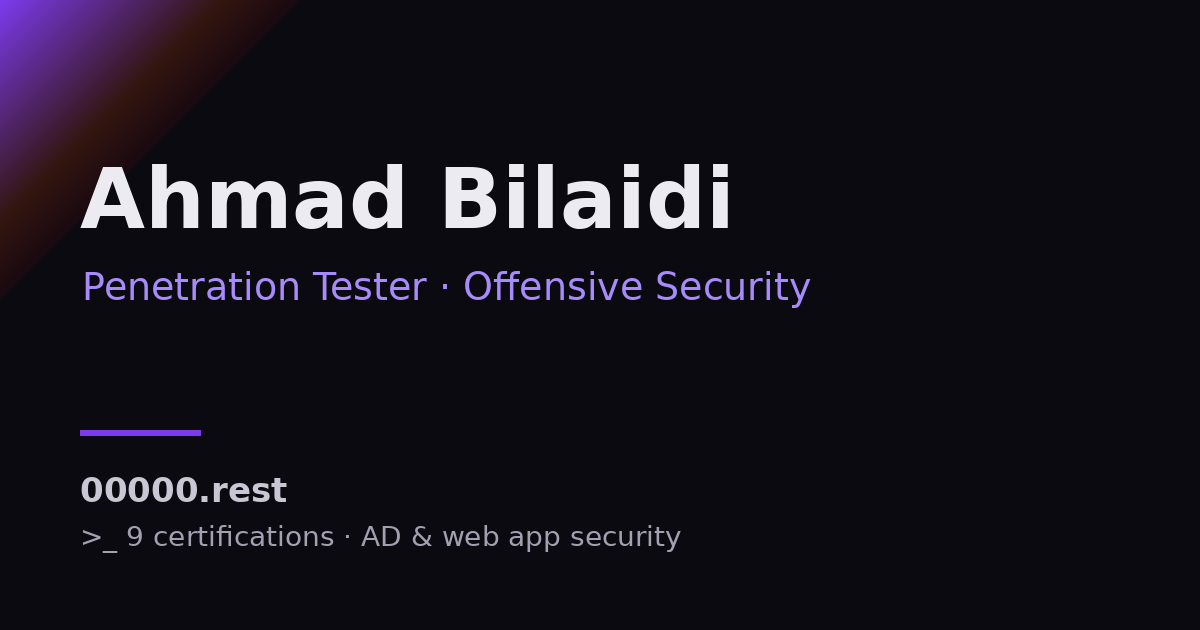
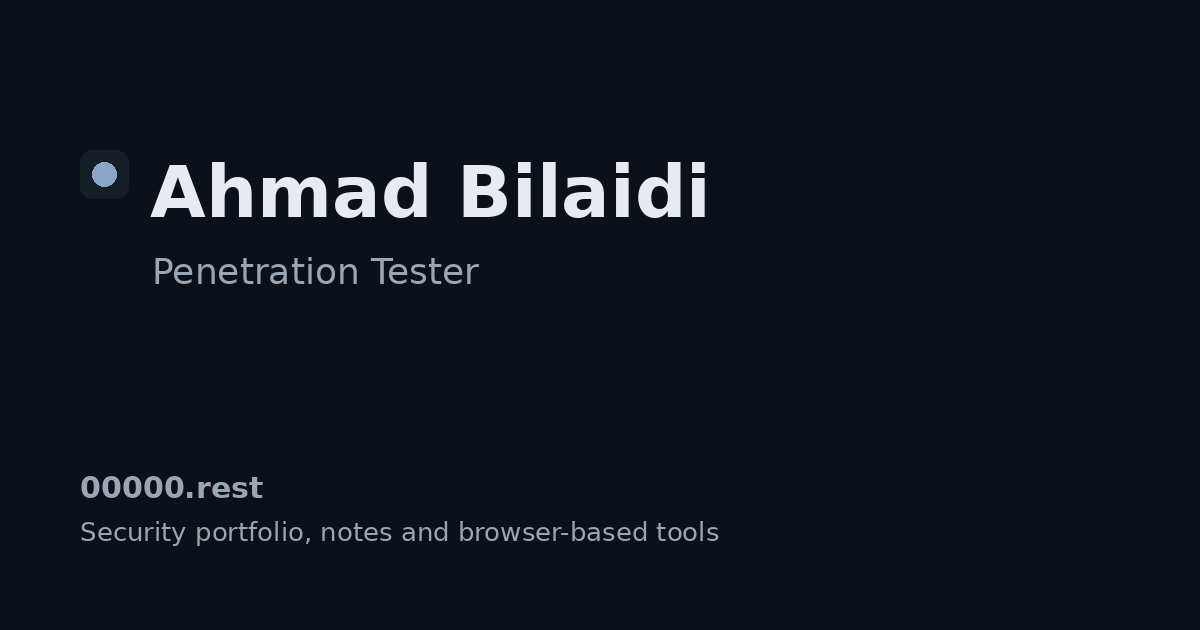
Redesign to minimal dark palette, remove hacker decorations
- Replace dual light/dark theme with single dark-only design using 5-color
  slate palette (#0c1018 → #151d27) and one muted accent (#8ba6c7)
- Delete Terminal.astro and ThemeToggle.astro components
- Remove terminal prompt and `//` decorations from footer, eyebrows, labels
- Simplify hero to single-column text layout (no terminal widget)
- Replace monospace stat values with sans-serif; use --fg instead of --accent
- Update favicon and OG image to dark palette with soft circle, no >_ glyph
- Refactor Header: 2-column brand/nav grid, plain dot brand mark
- Update site.config.ts accent to single string value (was light/dark object)
- Update BaseLayout to dark-only meta tags (no color-scheme toggle script)

Claude-Session: https://claude.ai/code/session_01JfzpeheJmGvBvczVSx1YbN

diff --git a/src/styles/global.css b/src/styles/global.css
@@ -1,6 +1,10 @@
 /* ==========================================================================
    00000 — design tokens + base styles. Plain CSS, no framework.
-   The accent color comes from site.config.ts (injected as --accent-light/--accent-dark).
+   Dark-only. The five background/surface fills are the fixed brand palette:
+     #151d27  #141a24  #141b28  #111923  #0c1018
+   Text uses off-white/grey neutrals and borders use faint white so the dark
+   surfaces stay readable. The accent (one soft slate-blue) comes from
+   site.config.ts, injected as --accent.
    ========================================================================== */
 
 :root {
@@ -14,58 +18,28 @@
   --gutter: clamp(1rem, 4vw, 2rem);
   --space: clamp(4rem, 10vw, 7rem);
 
-  /* light */
-  --bg: #ffffff;
-  --bg-soft: #f7f6fb;
-  --bg-elev: #ffffff;
-  --fg: #15141a;
-  --muted: #5b5966;
-  --border: #e7e5ef;
-  --border-strong: #d4d1e0;
-  --accent: var(--accent-light);
-  --accent-fg: #ffffff;
-  --accent-soft: color-mix(in srgb, var(--accent) 9%, transparent);
-  --glow: color-mix(in srgb, var(--accent) 14%, transparent);
-  --ok: #15803d;
-  --warn: #b45309;
-  --bad: #b91c1c;
+  /* brand palette — backgrounds and surfaces only */
+  --bg: #0c1018;        /* page background (darkest) */
+  --bg-soft: #111923;   /* inputs, code, subtle panels */
+  --bg-elev: #151d27;   /* cards, header (lightest of the five) */
+  --bg-elev-2: #141b28; /* nested surfaces */
 
-  color-scheme: light;
-}
+  /* neutrals for text + structure */
+  --fg: #e7ebf1;
+  --muted: #9aa6b4;
+  --border: rgba(255, 255, 255, 0.08);
+  --border-strong: rgba(255, 255, 255, 0.16);
 
-@media (prefers-color-scheme: dark) {
-  :root:not([data-theme='light']) {
-    --bg: #0b0a10;
-    --bg-soft: #121119;
-    --bg-elev: #15141d;
-    --fg: #ecebf2;
-    --muted: #a3a1b1;
-    --border: #24222f;
-    --border-strong: #353243;
-    --accent: var(--accent-dark);
-    --accent-fg: #120f1c;
-    --glow: color-mix(in srgb, var(--accent) 18%, transparent);
-    --ok: #4ade80;
-    --warn: #fbbf24;
-    --bad: #f87171;
-    color-scheme: dark;
-  }
-}
+  /* one soft accent */
+  --accent-fg: #0c1018;
+  --accent-soft: color-mix(in srgb, var(--accent) 14%, transparent);
+  --glow: color-mix(in srgb, var(--accent) 16%, transparent);
 
-:root[data-theme='dark'] {
-  --bg: #0b0a10;
-  --bg-soft: #121119;
-  --bg-elev: #15141d;
-  --fg: #ecebf2;
-  --muted: #a3a1b1;
-  --border: #24222f;
-  --border-strong: #353243;
-  --accent: var(--accent-dark);
-  --accent-fg: #120f1c;
-  --glow: color-mix(in srgb, var(--accent) 18%, transparent);
-  --ok: #4ade80;
-  --warn: #fbbf24;
-  --bad: #f87171;
+  /* functional status tones (password strength, token expiry) — kept muted */
+  --ok: #86c2a1;
+  --warn: #d8bd8a;
+  --bad: #d99090;
+
   color-scheme: dark;
 }
 
@@ -221,9 +195,8 @@ pre {
 
 /* ---------- small type ---------- */
 .label {
-  font-family: var(--font-mono);
-  font-size: 0.75rem;
-  letter-spacing: 0.08em;
+  font-size: 0.72rem;
+  letter-spacing: 0.1em;
   text-transform: uppercase;
   color: var(--muted);
 }
@@ -231,17 +204,12 @@ pre {
   color: var(--accent);
 }
 .eyebrow {
-  display: inline-flex;
-  align-items: center;
-  gap: 0.5rem;
-  font-family: var(--font-mono);
-  font-size: 0.8rem;
-  color: var(--accent);
+  display: inline-block;
+  font-size: 0.75rem;
+  letter-spacing: 0.1em;
+  text-transform: uppercase;
+  color: var(--muted);
   margin-bottom: 1rem;
-}
-.eyebrow::before {
-  content: '//';
-  opacity: 0.6;
 }
 .muted {
   color: var(--muted);
@@ -262,7 +230,6 @@ pre {
   margin: 0;
 }
 .link-arrow {
-  font-family: var(--font-mono);
   font-size: 0.85rem;
   text-decoration: none;
   color: var(--muted);
@@ -395,8 +362,8 @@ pre {
   position: relative;
   z-index: 1;
   display: inline-block;
-  font-family: var(--font-mono);
   font-size: 0.72rem;
+  letter-spacing: 0.02em;
   line-height: 1;
   padding: 0.4rem 0.55rem;
   border-radius: 6px;
@@ -460,7 +427,6 @@ a.tag:hover {
   border-bottom: 1px solid var(--border);
 }
 .prose th {
-  font-family: var(--font-mono);
   font-size: 0.75rem;
   text-transform: uppercase;
   letter-spacing: 0.06em;

diff --git a/site.config.ts b/site.config.ts
@@ -46,17 +46,12 @@ export const site = {
     keyUrl: '/pgp.asc',
   },
 
-  /** Terminal prompt on the home page: `${terminalUser}@${brand}:~$` */
-  terminalUser: 'ahmad',
-
   /**
-   * Accent color — the only color besides neutrals. Use a darker shade for light mode
-   * and a lighter shade for dark mode so both pass WCAG AA contrast.
+   * Accent color — the one soft color besides the dark slate surfaces and neutral text.
+   * Used for links, buttons and small highlights. Keep it light enough to pass WCAG AA
+   * contrast on the dark background (#0c1018).
    */
-  accent: {
-    light: '#7c3aed',
-    dark: '#a78bfa',
-  },
+  accent: '#8ba6c7',
 
   /** Default locale for <html lang> and RSS. */
   lang: 'en',
